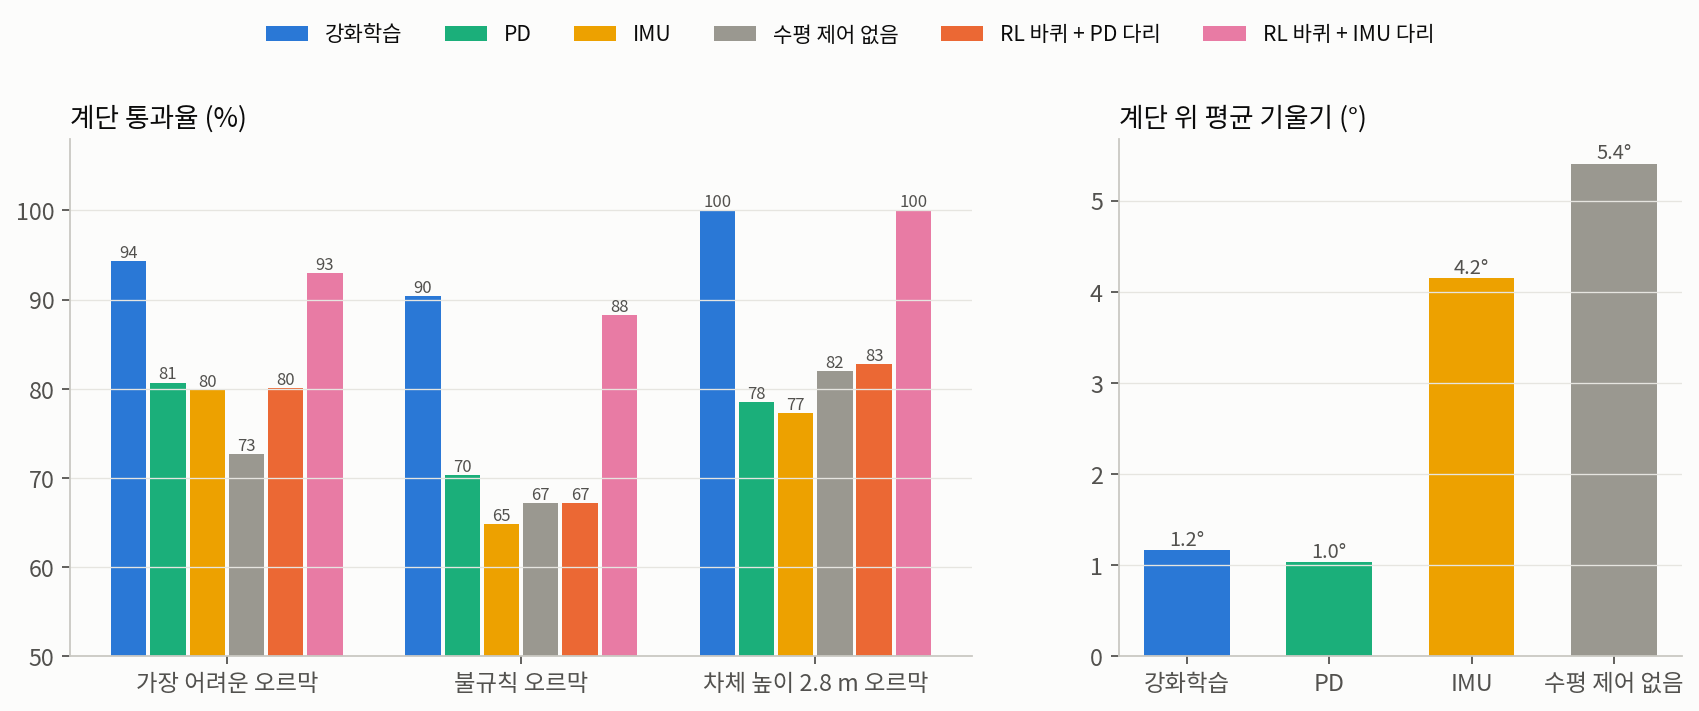
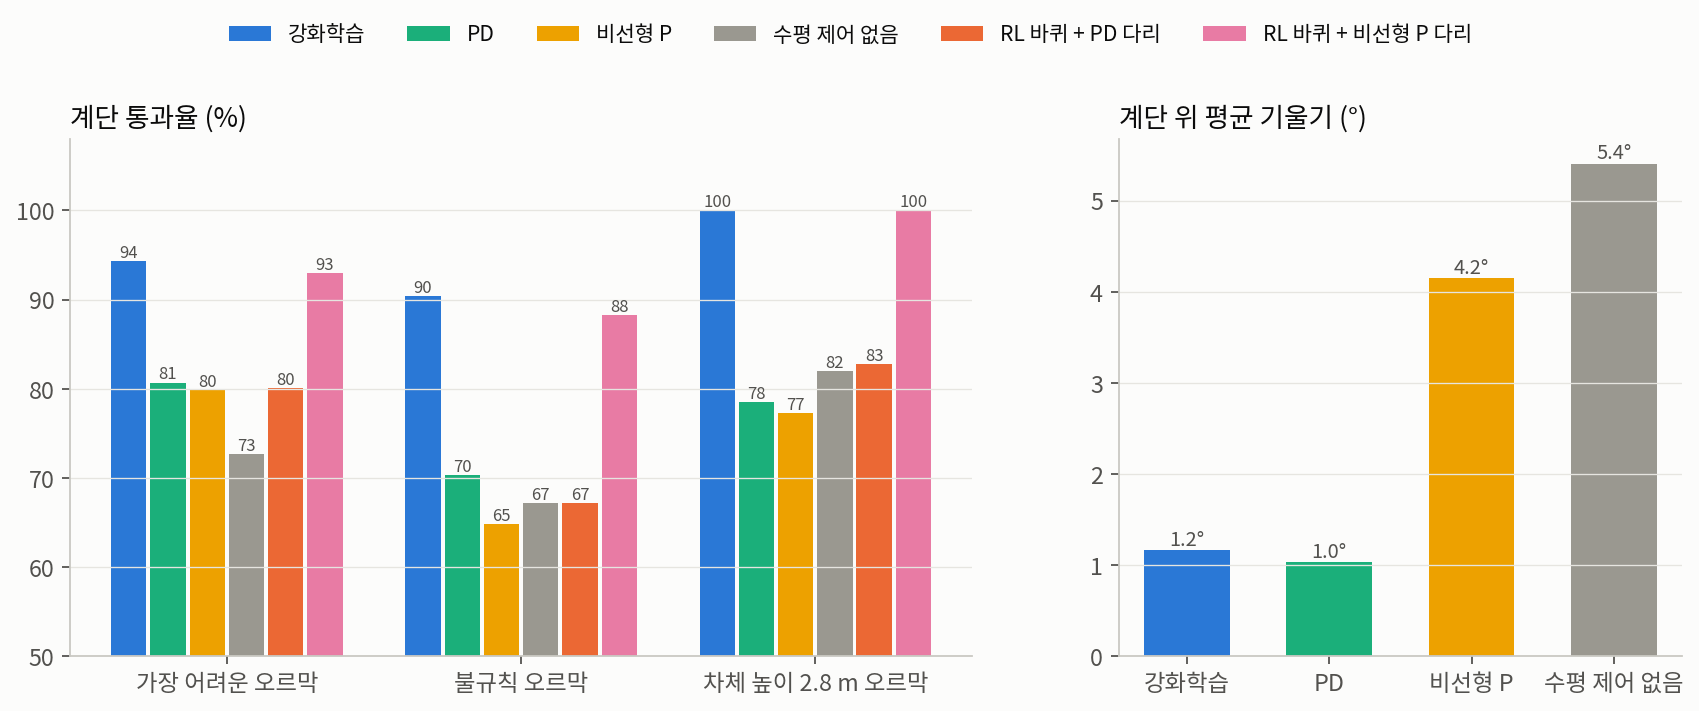
Teraffe MuJoCo 3: rename 'IMU' leveller to nonlinear P (both baselines use base attitude feedback)

Changed region(s): [[0.1248, 0.0309, 0.4055, 0.0619], [0.7799, 0.0309, 0.8735, 0.0619], [0.8423, 0.9283, 0.8735, 0.9902]]

diff --git a/projects/teraffe/notes/12-mujoco-loco.md b/projects/teraffe/notes/12-mujoco-loco.md
@@ -228,9 +228,11 @@ Teraffe는 바퀴 네 개가 각각 방향을 틀고(조향) 굴러가는(구동
 | 비교 대상 | 어떻게 수평을 맞추나 |
 |---|---|
 | 강화학습 (exp05) | 학습된 정책이 다리·조향·바퀴를 함께 보정 |
-| PD 수평 제어 | 기울기와 기울기 변화 속도에 비례해 다리 길이를 조절 (MuJoCo 조이스틱 제어에서 튜닝한 것) |
-| IMU 수평 제어 | 기울어진 정도에 따라 다리를 정해진 속도로 늘이고 줄임 (Isaac Sim 통합 제어에서 쓰던 것) |
+| PD 수평 제어 | 기울기(P)와 기울기 변화 속도(D)에 비례해 다리 속도를 정함. P 3.5, D 0.12, 최대 0.35/s (MuJoCo 조이스틱 제어에서 튜닝한 것) |
+| 비선형 P 수평 제어 | 기울기에만 비례해 다리 속도를 정함. 비례 이득이 기울기에 따라 달라서 5° 이하에서는 거의 움직이지 않음 (최대 0.005/s), 15°에서 0.1/s. D 항 없음 (Isaac Sim 통합 제어에서 쓰던 것) |
 | 수평 제어 없음 | 다리 길이 고정 |
+
+두 기존 제어기 모두 **차체 자세(roll·pitch)를 피드백으로 받아** 다리 길이를 조절한다. 차이는 기울기를 다리 속도로 바꾸는 방법(선형 P+D 대 비선형 P)과 다리 배분(바퀴 위치에 비례 대 앞뒤·좌우 부호만)이다.
 
 공정하게 비교하려고 **조향과 바퀴는 모두 같은 식(역기구학)** 을 쓰고, **다리 제어만** 바꿨다. 기존 두 제어기는 MuJoCo 로봇에 맞게 다리 번호와 방향을 맞췄고, 높이 명령은 유지하도록 했다.
 
@@ -239,7 +241,7 @@ Teraffe는 바퀴 네 개가 각각 방향을 틀고(조향) 굴러가는(구동
 ![지형에서 수평 제어 비교](assets/mujoco-leveling-terrain.png)
 *왼쪽: 평균 기울기(낮을수록 수평). 오른쪽: 속도·높이·자세를 동시에 지킨 시간 비율.*
 
-| 지표 (37가지 상황 평균) | 강화학습 | PD | IMU | 없음 |
+| 지표 (37가지 상황 평균) | 강화학습 | PD | 비선형 P | 없음 |
 |---|---|---|---|---|
 | 평균 기울기 | 0.85° | **0.43°** | 2.34° | 3.16° |
 | 최대 기울기 | 7.8° | **5.9°** | 14.9° | 31.7° |
@@ -250,14 +252,14 @@ Teraffe는 바퀴 네 개가 각각 방향을 틀고(조향) 굴러가는(구동
 
 - **수평 맞추기는 PD가 더 잘한다.** 강화학습은 회전할 때 일부러 안쪽으로 조금 기울이기 때문에 기울기 숫자가 조금 크다.
 - **성공률 차이는 속도 때문이다.** 거친 지형에서 PD 쪽은 바퀴 보정이 없어서 속도가 떨어진다.
-- IMU 방식은 5° 아래에서는 다리를 아주 천천히 움직이도록 만들어져 있어서, 경사와 요철에서 4–7° 기울기가 남았다.
+- 비선형 P 방식은 5° 아래에서 다리를 아주 천천히 움직이도록 만들어져 있어서, 경사와 요철에서 4–7° 기울기가 남았다. 정지 상태에서 천천히 수평을 잡는 데는 맞지만, 주행 중에는 따라가지 못한다.
 
 ### 계단에서
 
 ![계단에서 수평 제어 비교](assets/mujoco-leveling-stairs.png)
-*왼쪽: 계단 통과율. 오른쪽: 계단 위 평균 기울기. "RL 바퀴 + PD 다리"는 조향·바퀴는 강화학습, 다리만 PD로 바꾼 조합이다.*
+*왼쪽: 계단 통과율. 오른쪽: 계단 위 평균 기울기. "RL 바퀴 + PD 다리"는 조향·바퀴는 강화학습, 다리만 PD로 바꾼 조합이다. 조합 결과는 같은 조건(시드 2026, 512번)으로 따로 잰 것이라 강화학습 자체 값이 91–94%로 조금 다르다.*
 
-| 지표 (14.5 cm 이하 계단, 512번씩) | 강화학습 | PD | IMU | 없음 |
+| 지표 (14.5 cm 이하 계단, 512번씩) | 강화학습 | PD | 비선형 P | 없음 |
 |---|---|---|---|---|
 | 가장 어려운 오르막 | **94%** | 81% | 80% | 73% |
 | 들쭉날쭉한 오르막 | **90%** | 70% | 65% | 67% |
@@ -343,7 +345,7 @@ Teraffe는 바퀴 네 개가 각각 방향을 틀고(조향) 굴러가는(구동
 | 높이맵 | 일정 간격의 점마다 높이를 적어 지형을 표현하는 방법 |
 | 접지율 | 네 바퀴가 모두 땅에 닿아 있던 시간의 비율 |
 | 성공률 | 속도·회전·높이·자세를 동시에 허용 범위 안에서 지킨 시간 비율 |
-| PD 제어 | 오차(P)와 오차가 변하는 속도(D)에 비례해서 보정하는 고전적인 제어 방법 |
+| P / PD 제어 | 오차에 비례해서(P), 또는 오차와 오차가 변하는 속도에 비례해서(PD) 보정하는 고전적인 제어 방법 |
 | 오차 범위 (95%) | 같은 시험을 여러 번 하면 결과가 이 범위 안에 들어올 가능성이 95%라는 뜻 |
 
 ## 원리
